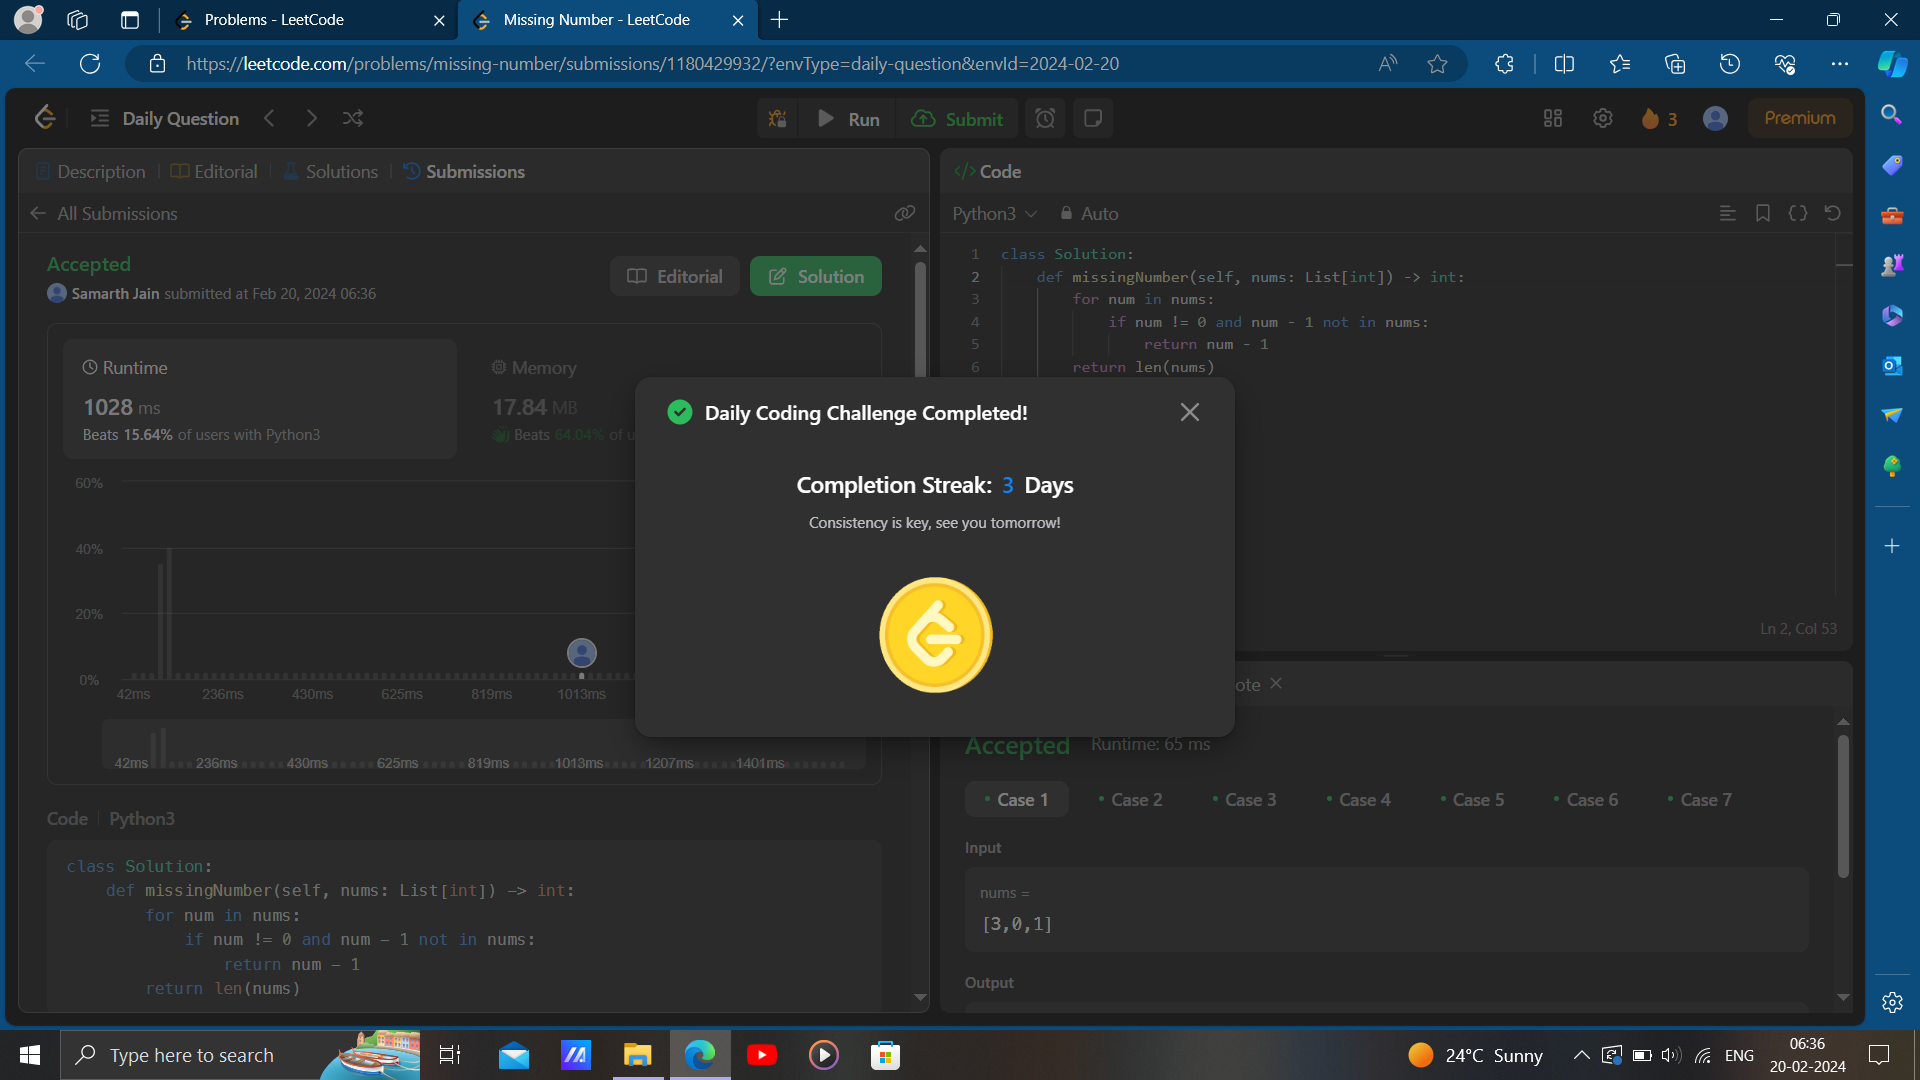
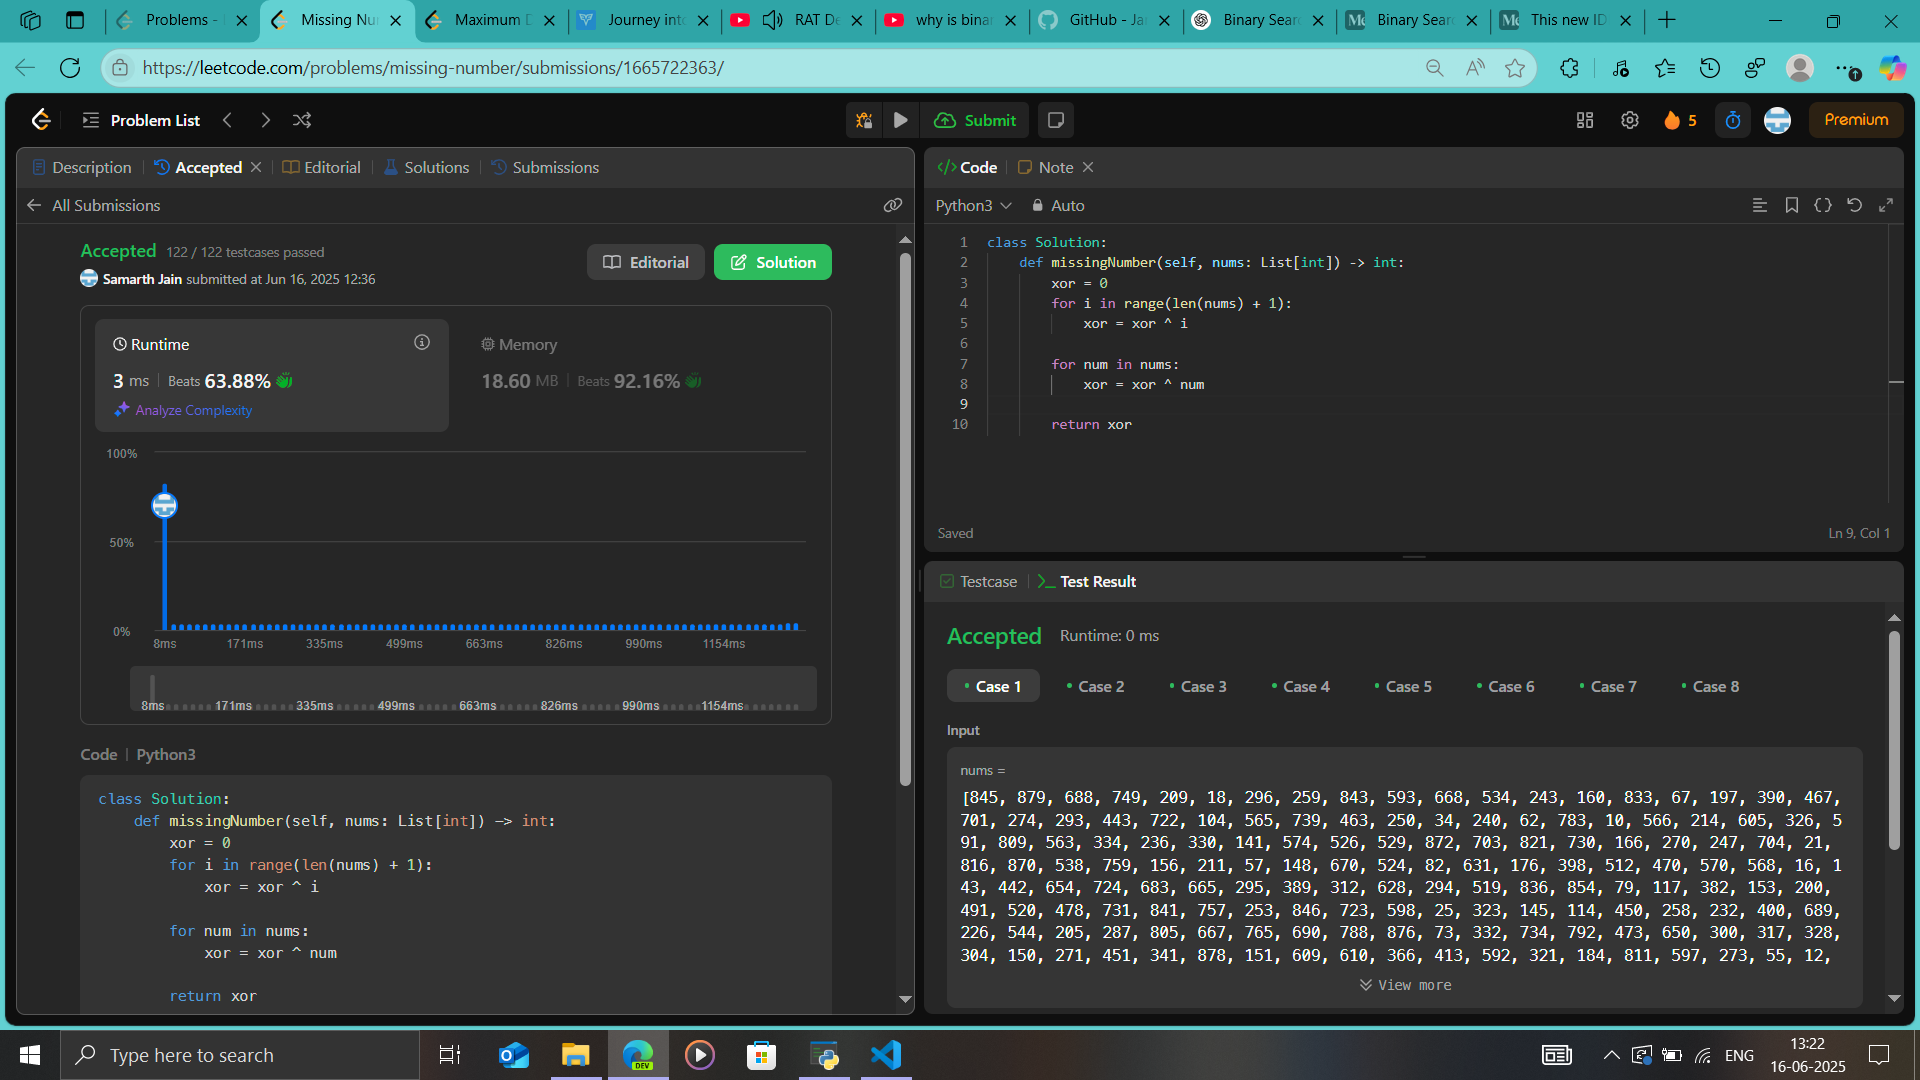
LeetCode-Solutions

diff --git a/Easy/[268] Missing Number/[268] Missing Number.py b/Easy/[268] Missing Number/[268] Missing Number.py
@@ -1,12 +1,71 @@
 """
 Accepted
 268 [Easy]
-Runtime: 1028 ms, faster than 14.11% of Python3 online submissions for Missing Number.
-Memory Usage: 17.84 MB, less than 49.34% of Python3 online submissions for Missing Number.
+Runtime: 0 ms, faster than 100.00% of Python3 online submissions for Missing Number.
+Memory Usage: 18.59 MB, less than 92.16% of Python3 online submissions for Missing Number.
 """
+# Math approach
+# TC: O(1), SC: O(1)
 class Solution:
     def missingNumber(self, nums: List[int]) -> int:
+        req_sum = (len(nums) * (len(nums) + 1)) // 2
+        actual_sum = sum(nums)
+        return req_sum - actual_sum
+
+
+
+"""
+Runtime: 3 ms, faster than 63.88% of Python3 online submissions for Missing Number.
+Memory Usage: 18.60 MB, less than 92.16% of Python3 online submissions for Missing Number.
+"""
+# Bit Manipulation/XOR approach
+# TC: O(n), SC: O(1)
+class Solution:
+    def missingNumber(self, nums: List[int]) -> int:
+        xor = 0
+        for i in range(len(nums) + 1):
+            xor = xor ^ i
+
         for num in nums:
-            if num != 0 and num - 1 not in nums:
-                return num - 1
-        return len(nums)
+            xor = xor ^ num
+
+        return xor
+
+
+
+"""
+Runtime: 12 ms, faster than 21.47% of Python3 online submissions for Missing Number.
+Memory Usage: 18.76 MB, less than 52.15% of Python3 online submissions for Missing Number.
+"""
+# Binary Search approach
+# TC: O(nlog(n)), SC: (1)
+class Solution:
+    def missingNumber(self, nums: List[int]) -> int:
+        nums.sort()
+
+        low, high = 0, len(nums) 
+        while low < high:
+            mid = low + ((high - low) // 2)
+
+            # nums[mid] can either be equal or greater than mid, never lesser
+            if nums[mid] != mid:
+                high = mid
+            else:
+                low = mid + 1
+
+        # Here, low = high
+        return low
+
+
+
+"""
+Runtime: 1303 ms, faster than 7.07% of Python3 online submissions for Missing Number.
+Memory Usage: 18.64 MB, less than 72.61% of Python3 online submissions for Missing Number.
+"""
+# Brute-force approach
+# TC: O(n^2), SC: O(1)
+class Solution:
+    def missingNumber(self, nums: List[int]) -> int:
+        for i in range(len(nums) + 1):
+            if i not in nums:
+                return i
